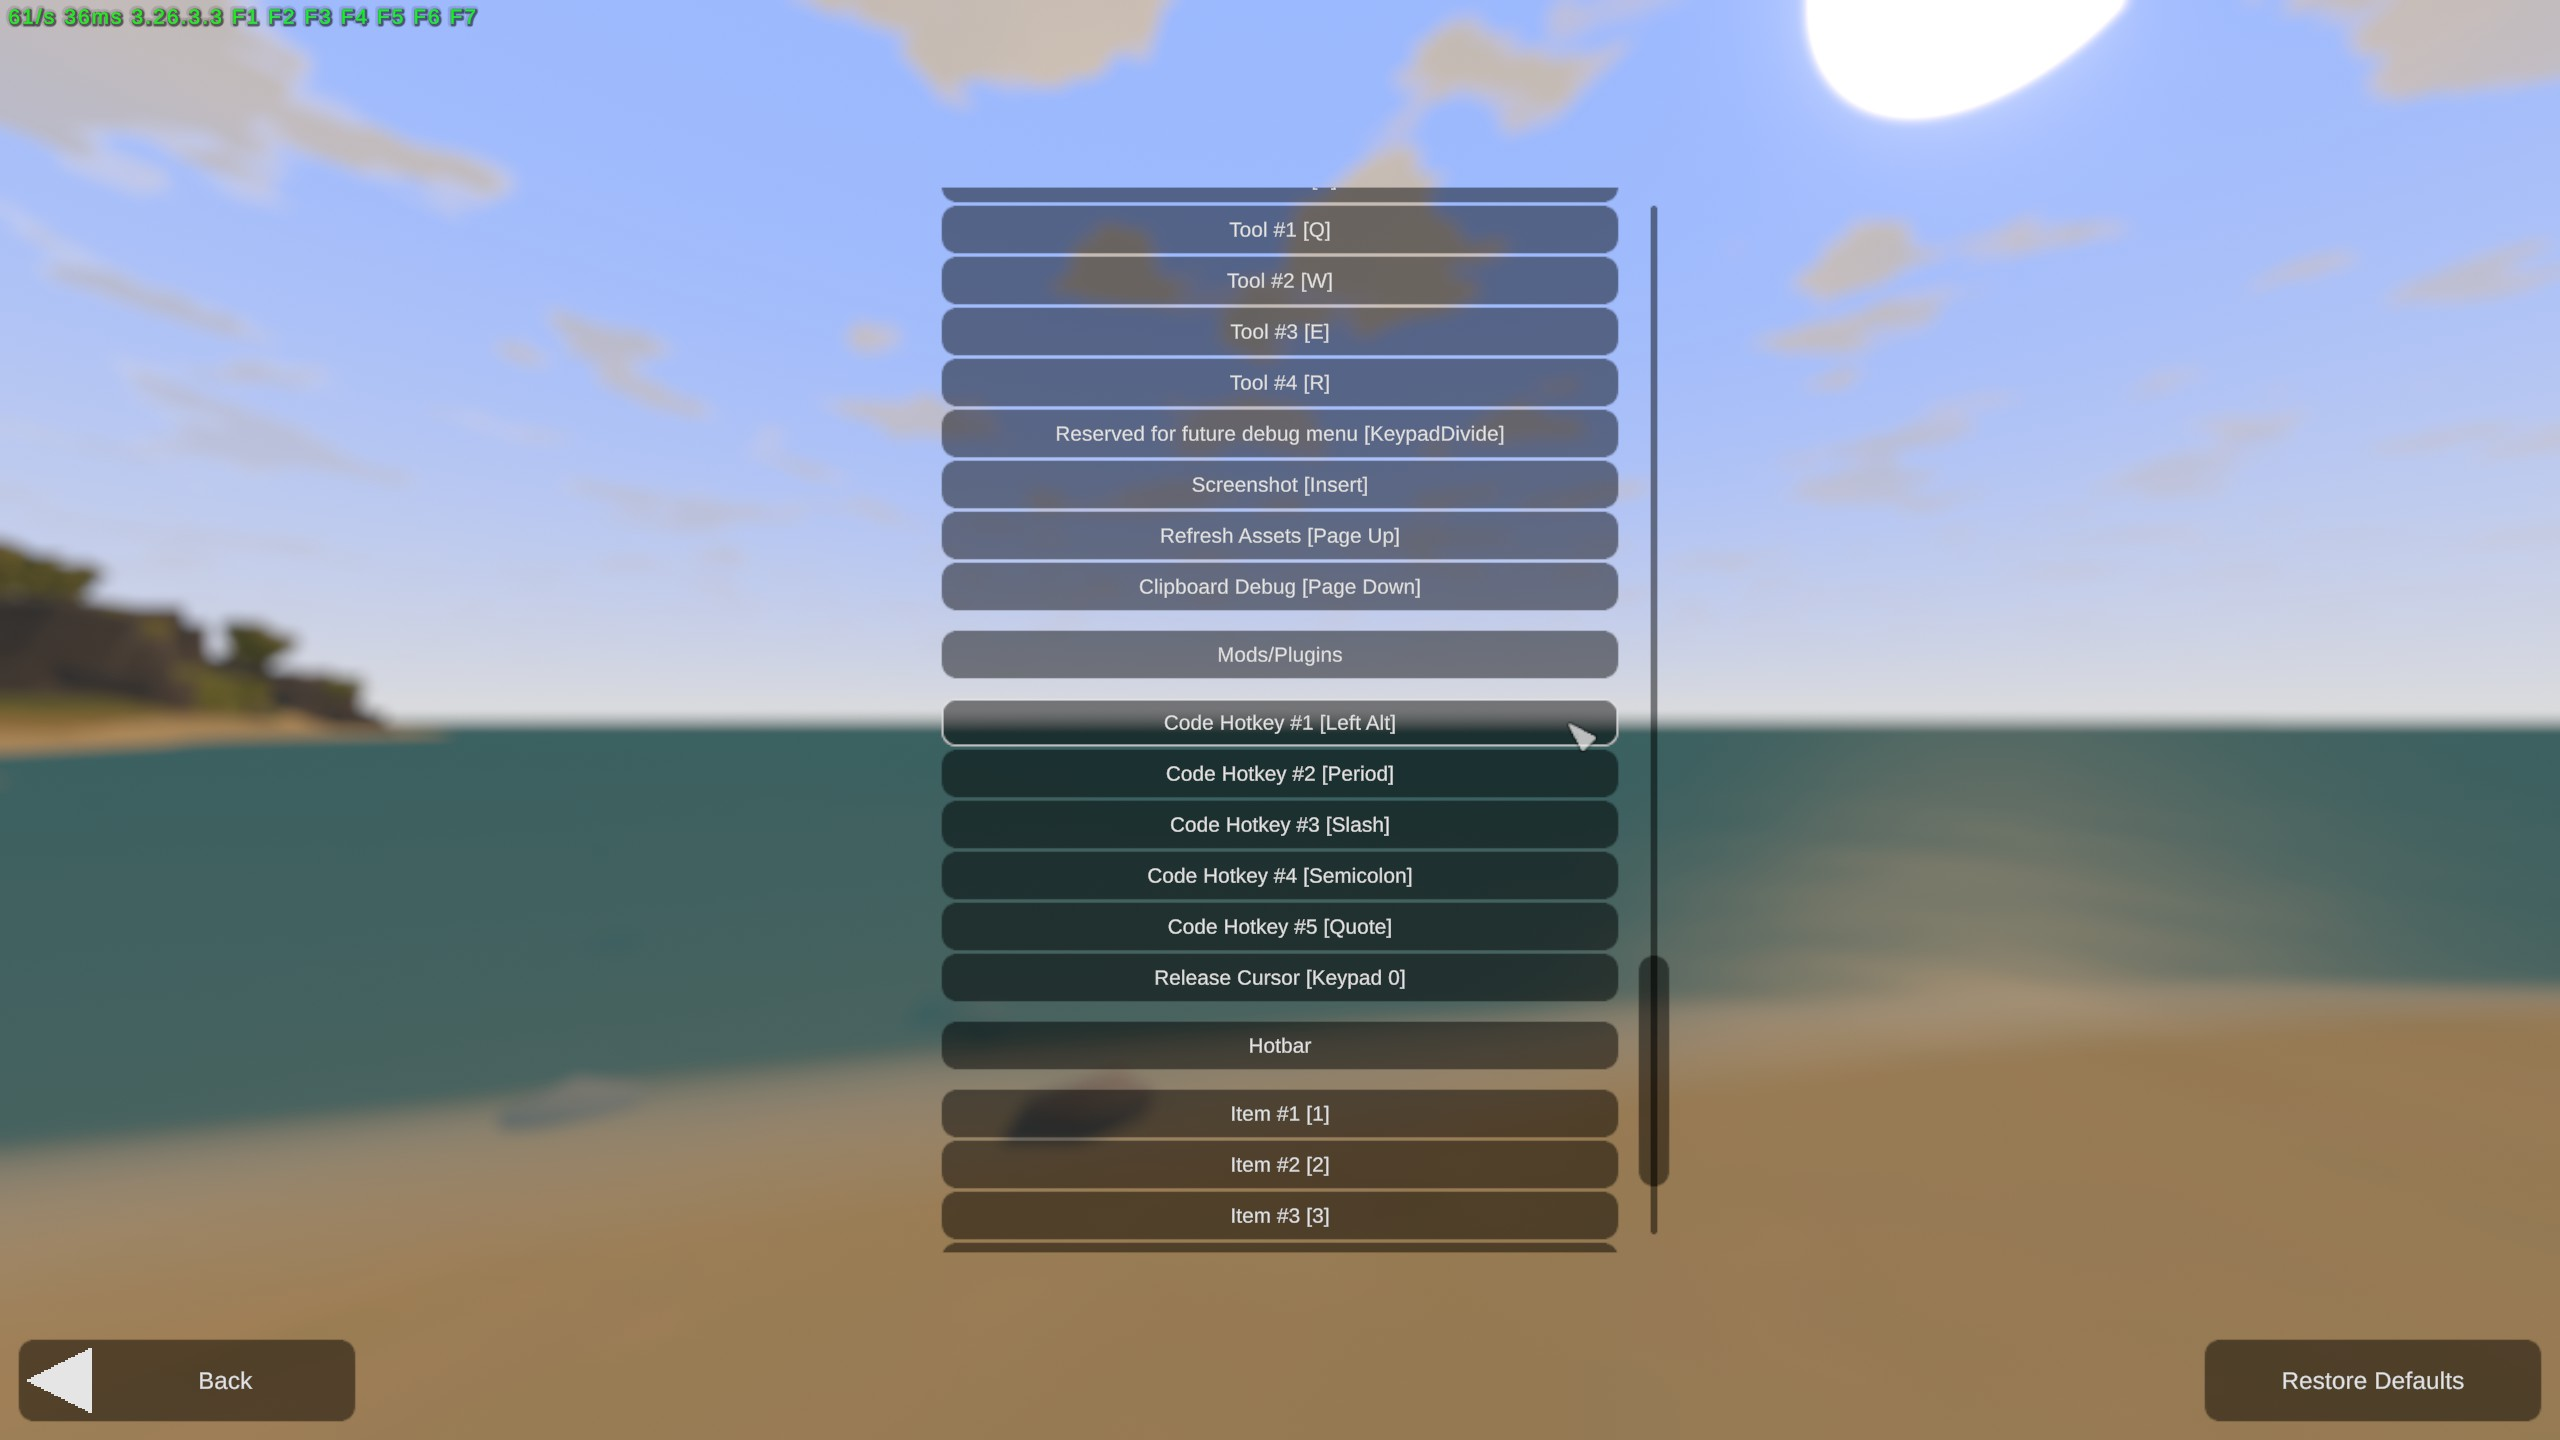
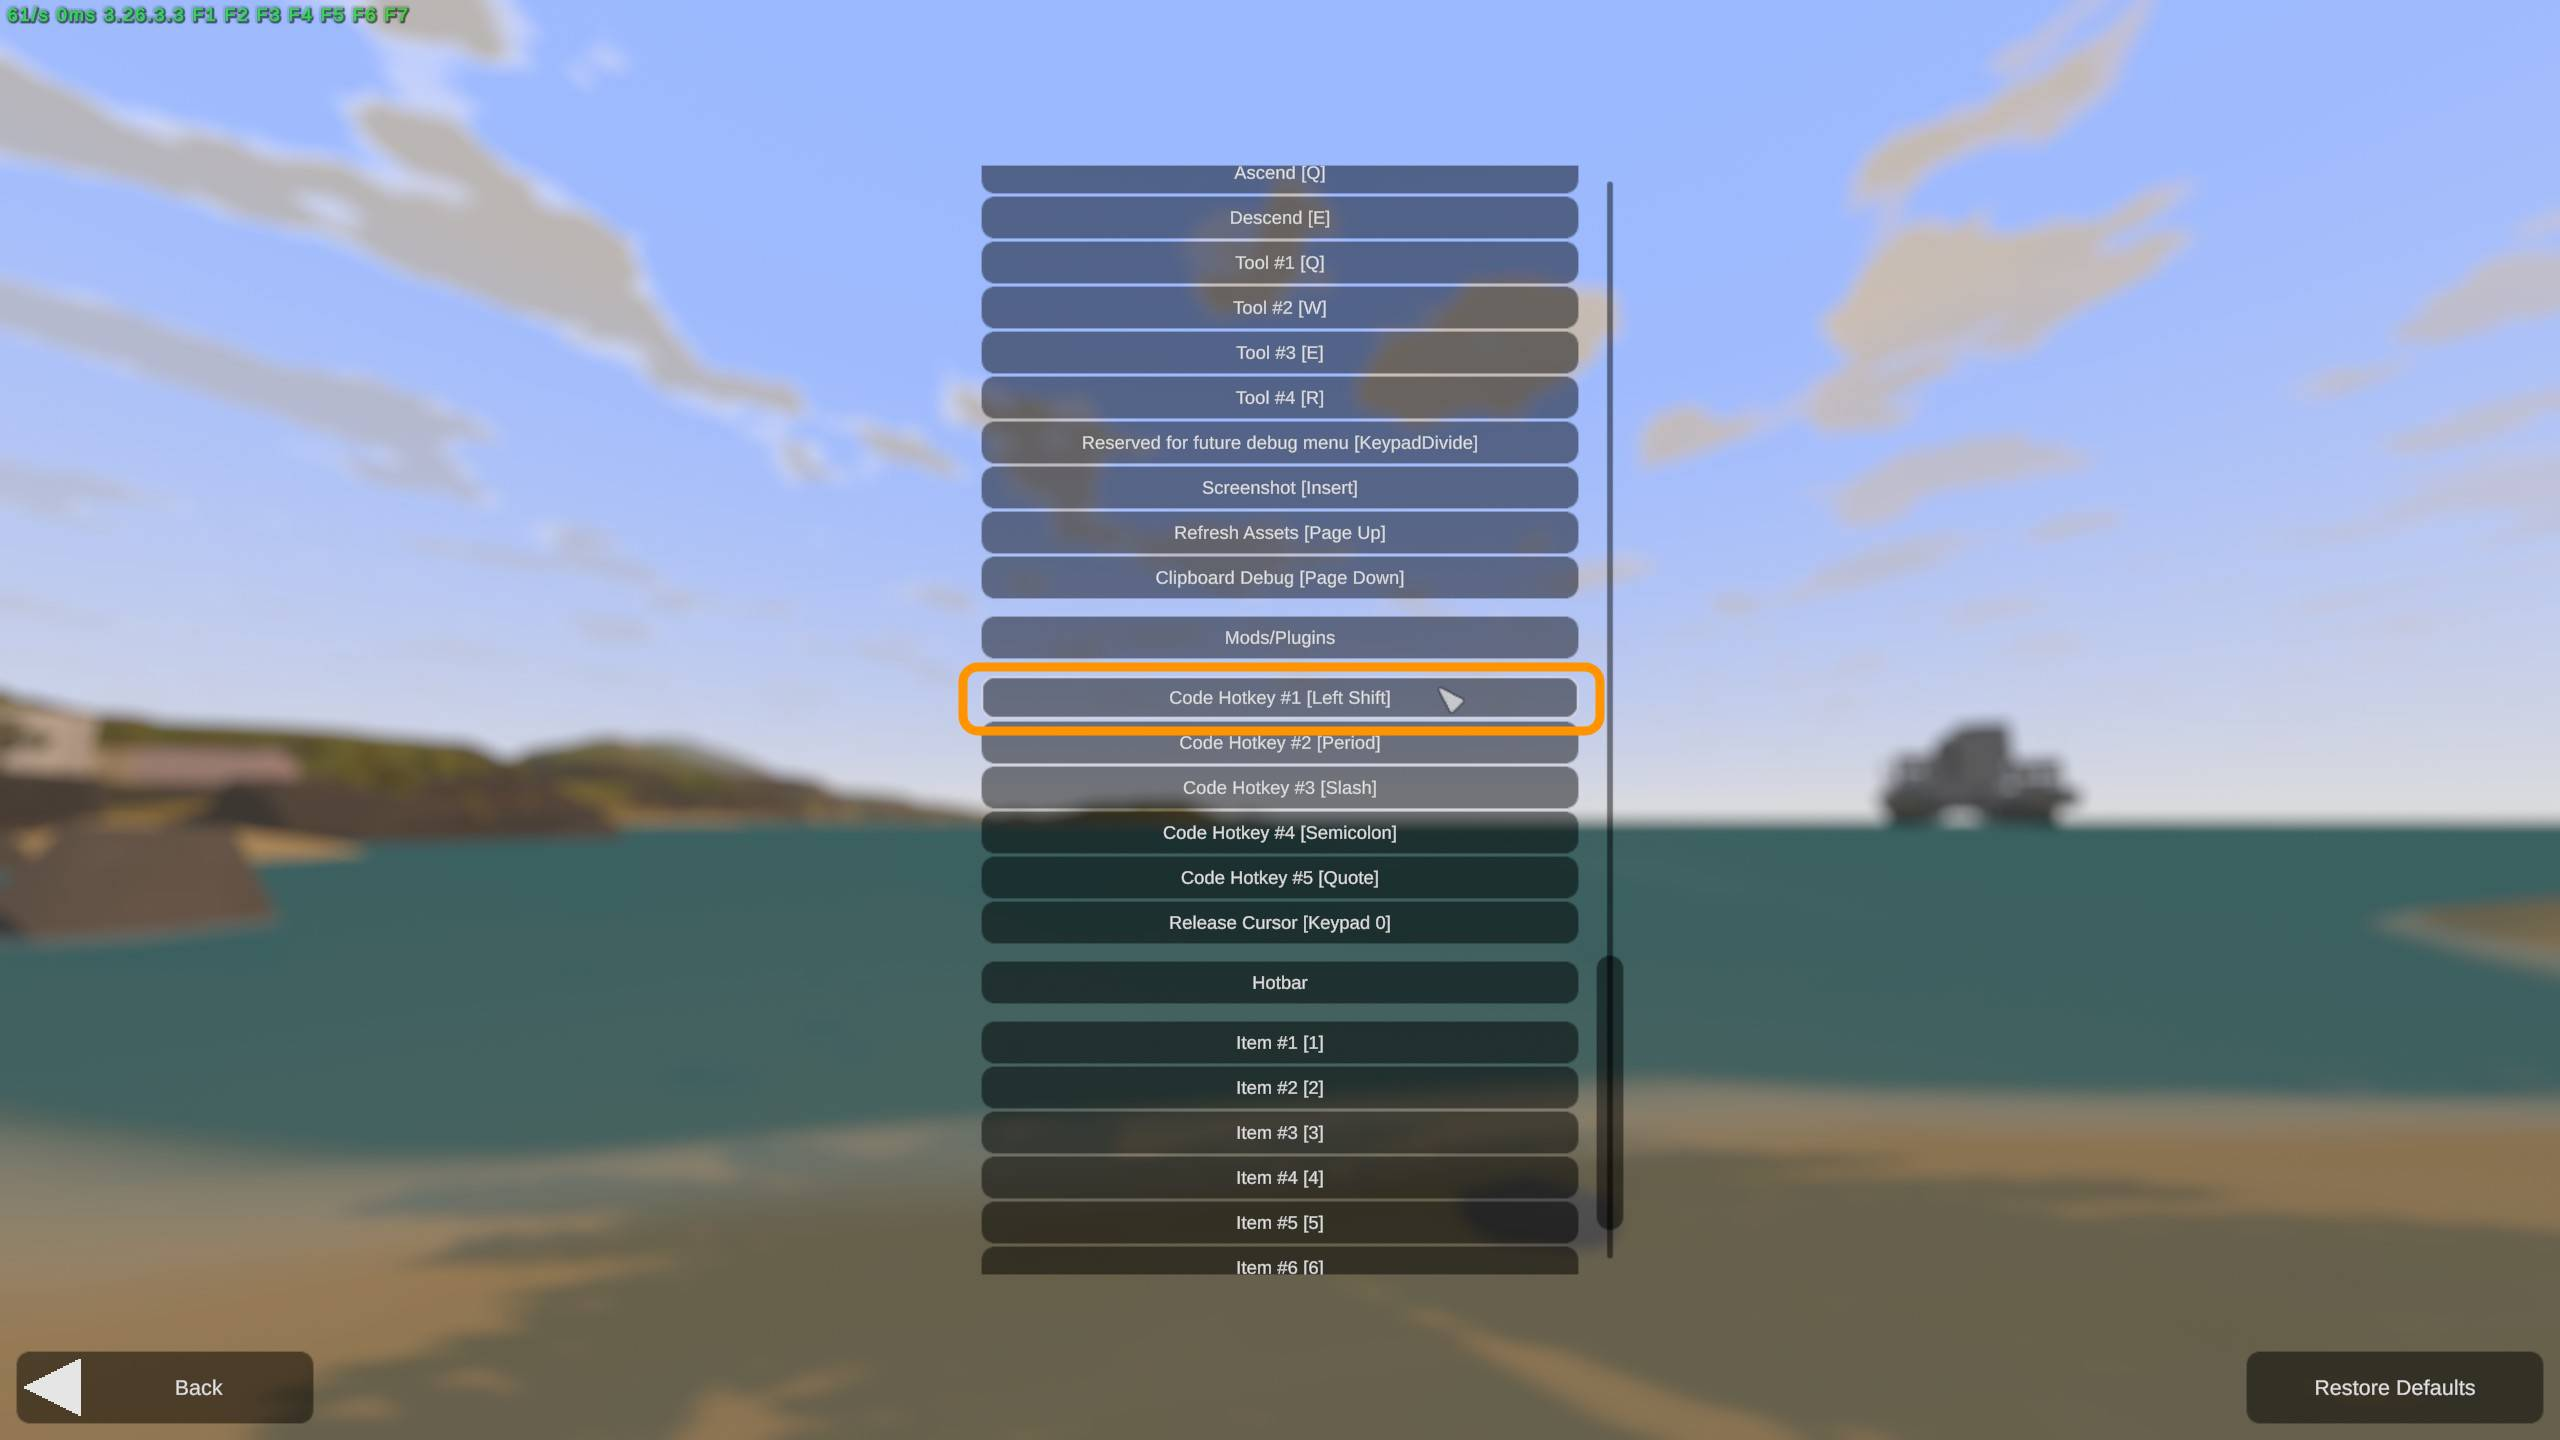
update fast sell guide

diff --git a/_plugins/shop_prices_enricher.rb b/_plugins/shop_prices_enricher.rb
@@ -70,7 +70,6 @@ Jekyll::Hooks.register :site, :post_read do |site|
   base_uri = URI('https://restoremonarchy.com/browser/search')
   origin = site.config.dig('shop_prices_api', 'origin')
   origin = origin.to_s.strip
-  origin = 'california-2' if origin.empty?
 
   enrich_shop_entries(items, 'Item', base_uri, origin)
   enrich_shop_entries(vehicles, 'Vehicle', base_uri, origin)

diff --git a/_tabs/fast-sell.md b/_tabs/fast-sell.md
@@ -10,13 +10,17 @@ title: Fast Sell
 
 ## How it works
 ![Inventory](/assets/img/tabs/fast-sell/inventory-combo.jpg)
-Just open your inventory and left click the item you want to sell by keeping pressed two keyboard buttons (CTRL + ALT in the example).
+Just open your inventory and left click the item you want to sell by keeping pressed two keyboard buttons (CTRL + SHIFT in the example).
 If the item can be sold to the shop it will be removed from your inventory and your balance will be increased by the sell price of that items.
 If the item cannot be sold to the shop, nothing happens.
 
 The two keyboard buttons are the following:
 - Drop button (default to CTRL): the button that you already use to fast drop items from your inventory
 - Custom button (default to "comma"): an additional button that you can customize (see the following section).
+
+> The secondary key is fully customizable (SHIFT in the example)  
+Choose the key that you prefer based on your keyboard layout
+{: .prompt-tip }
 
 ## Keybind setting
 Open the Main Game menu by pressing ESC: